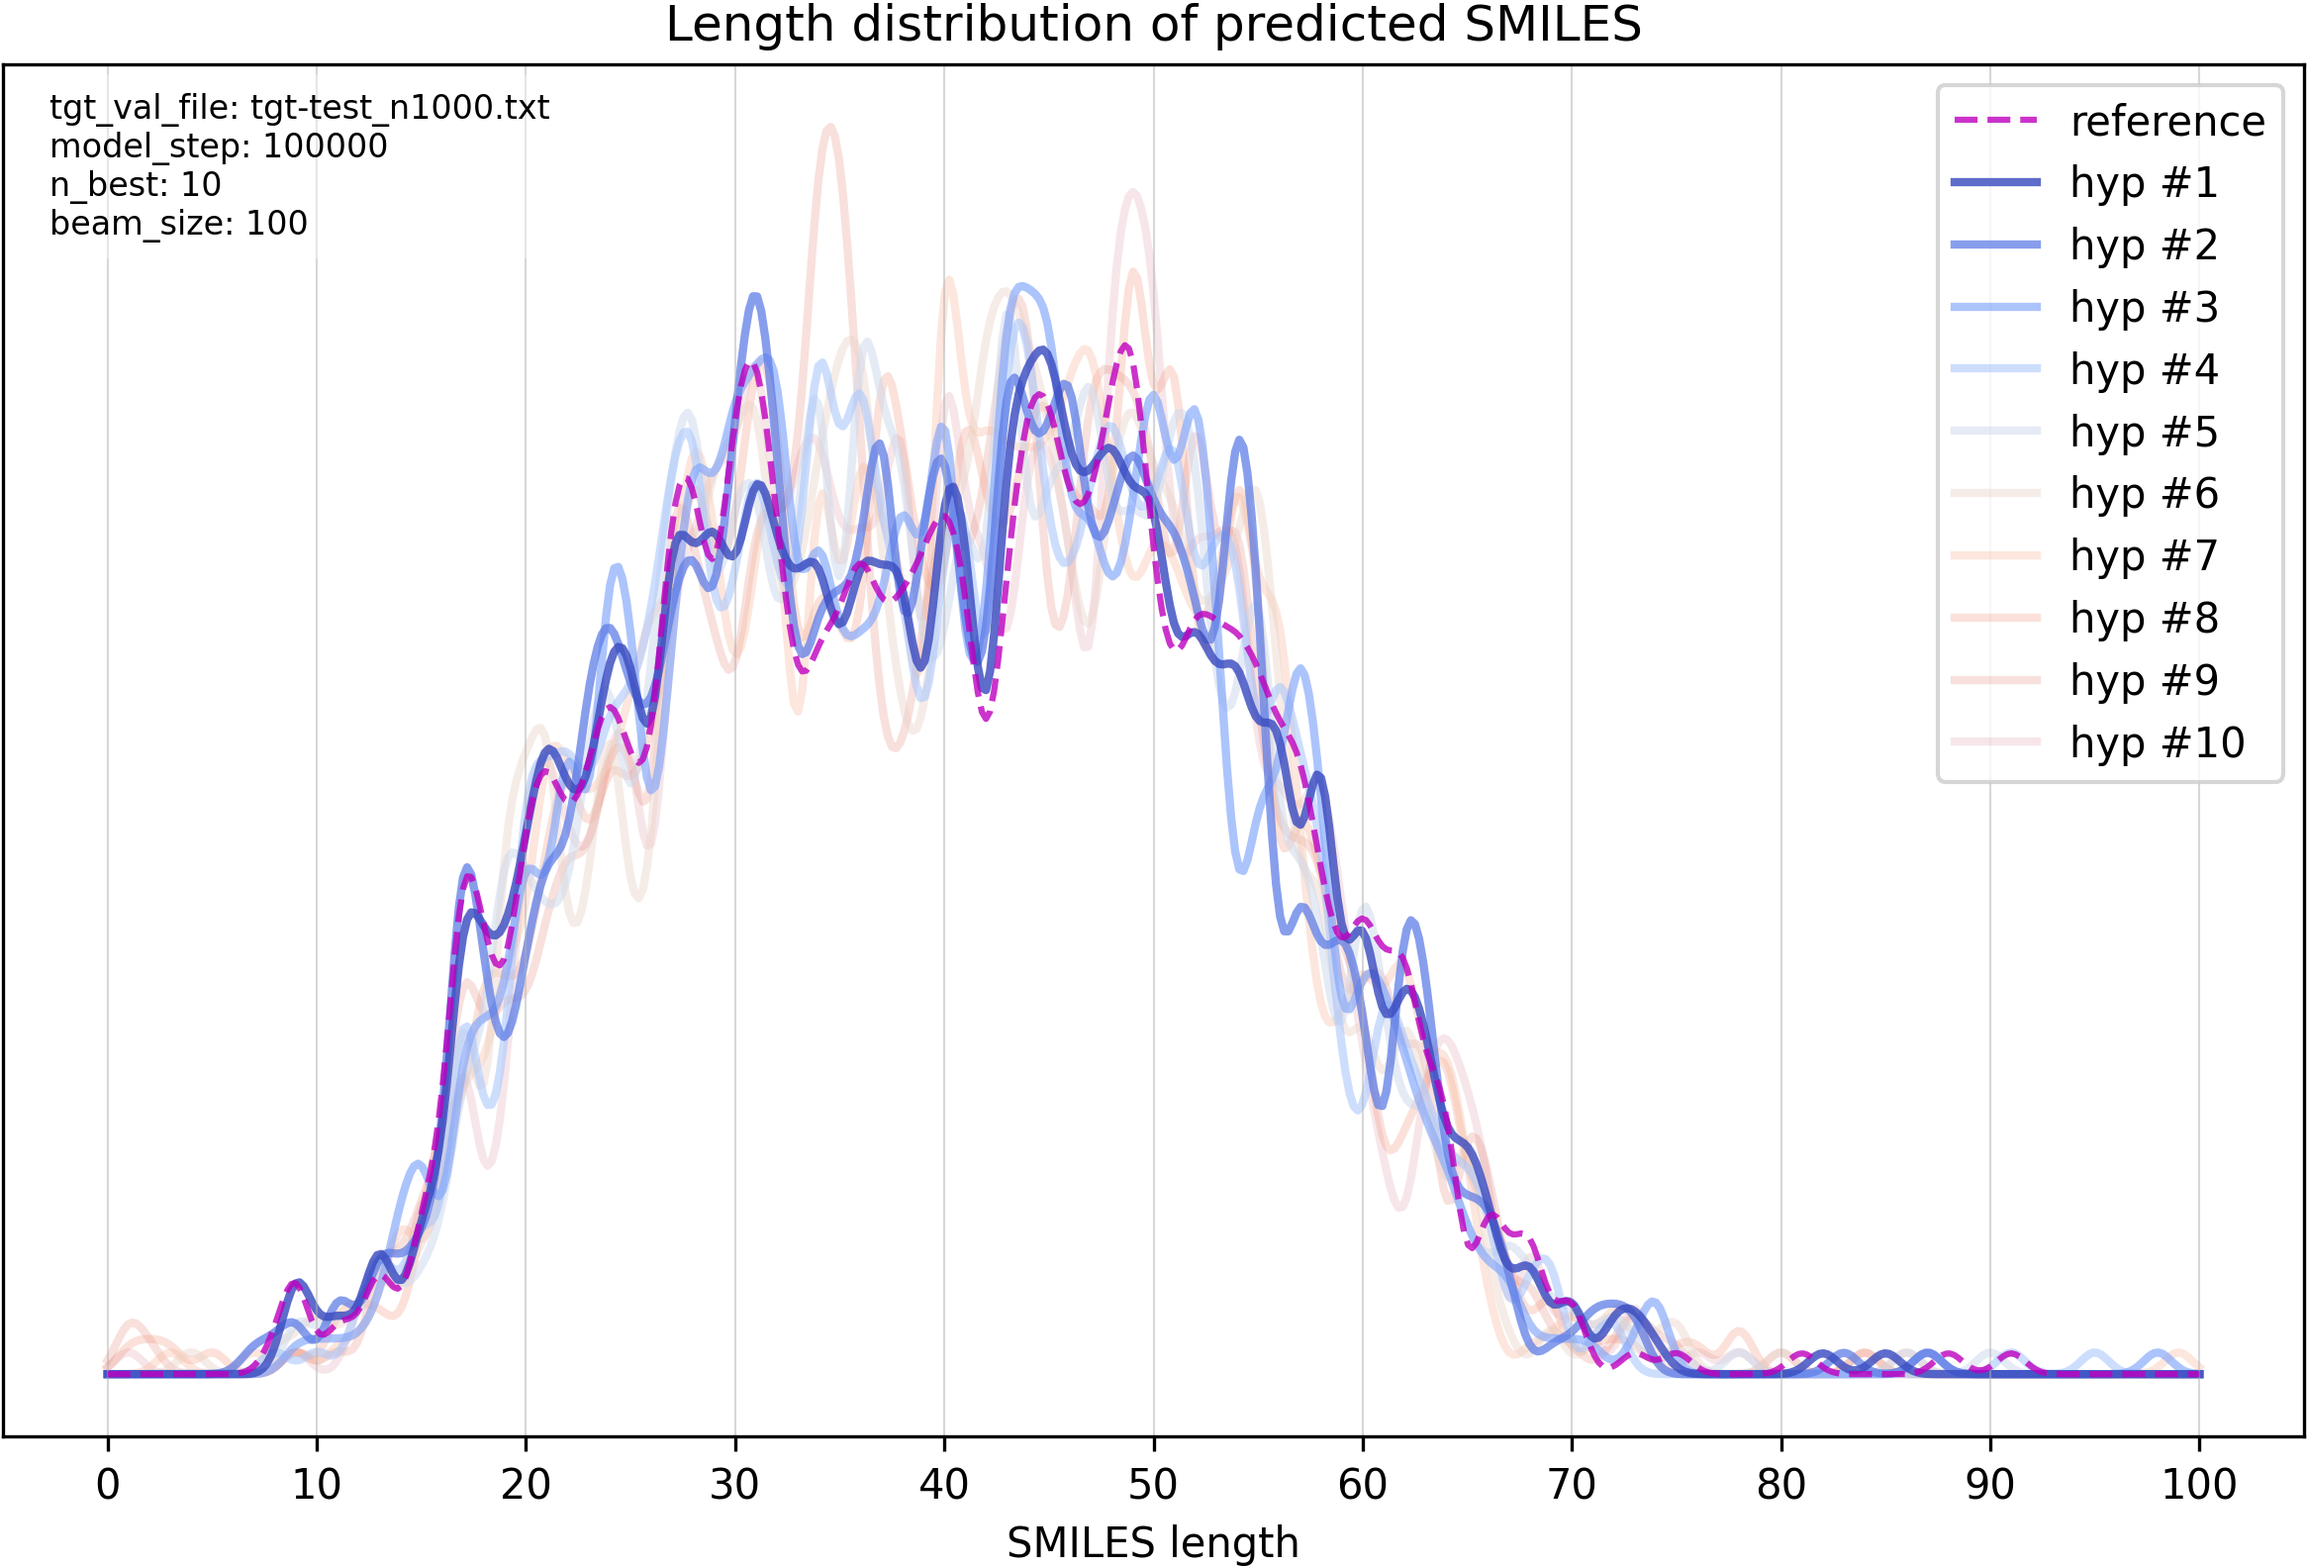
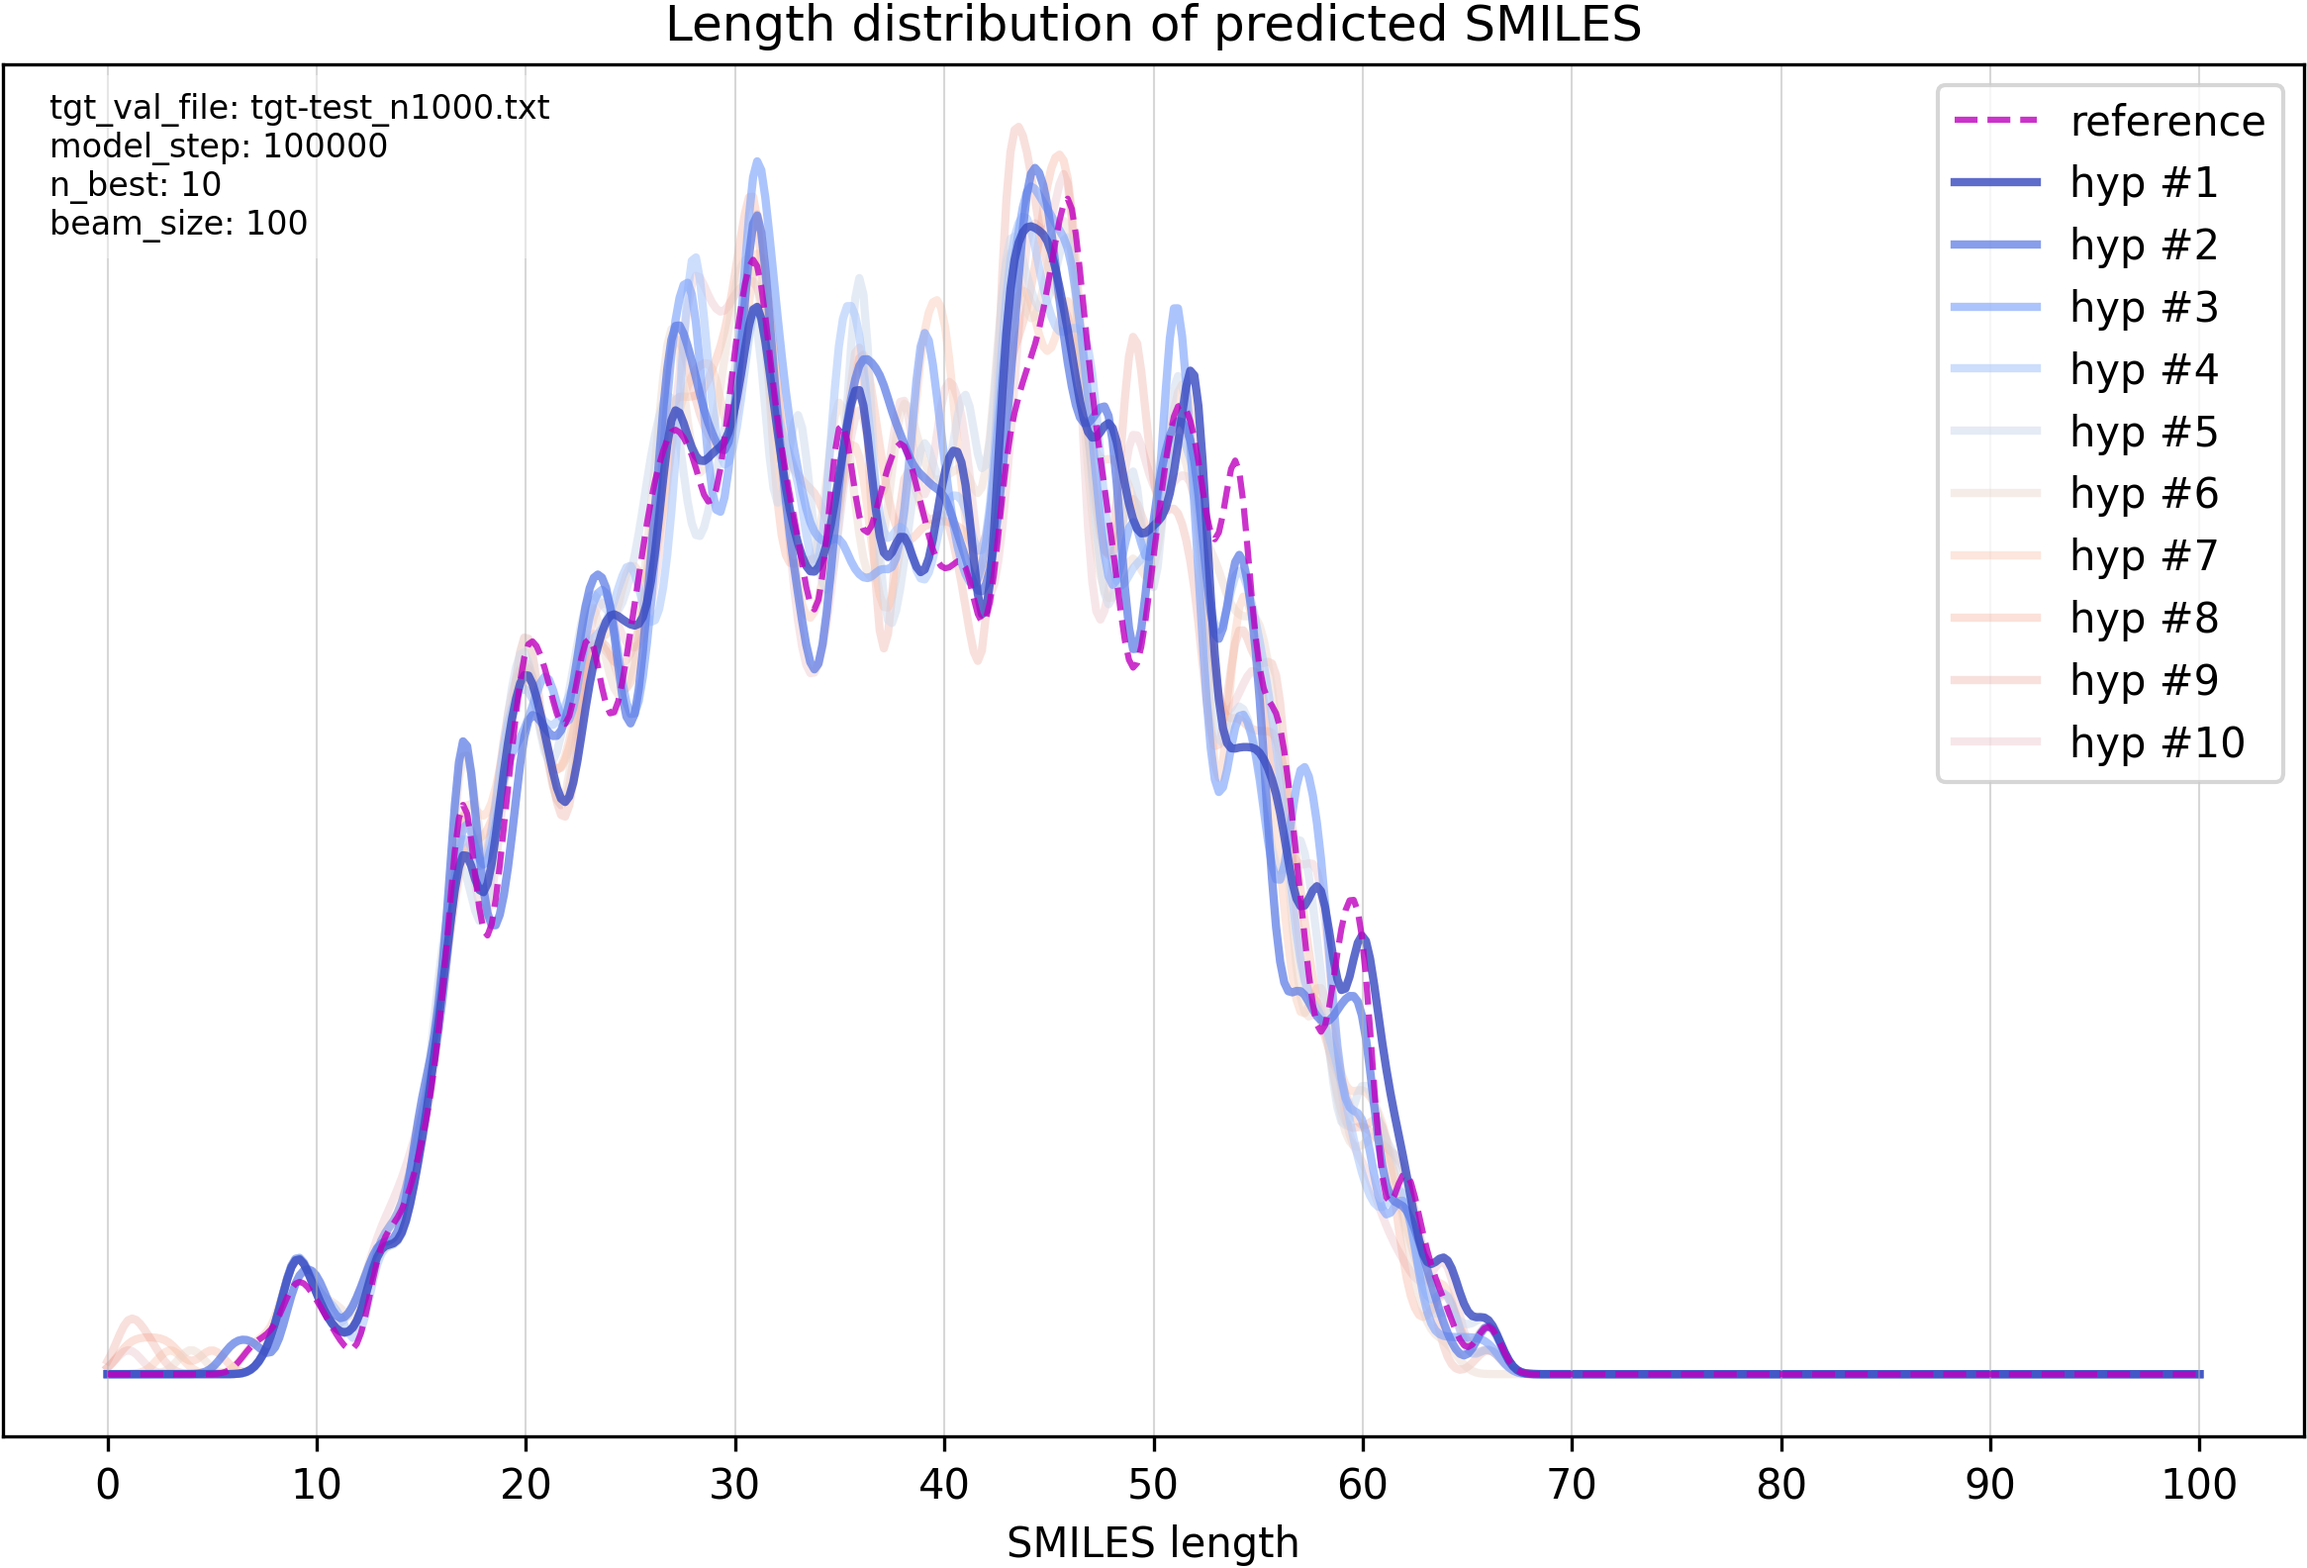
smiles length in tokens

Changed region(s): [[0.0927, 0.0928, 0.9575, 0.8971]]

diff --git a/translate/l_lengths.py b/translate/l_lengths.py
@@ -58,6 +58,8 @@ def process_translation(translation_file: Path):
         for (n, hyp) in enumerate(sample['hyps'], start=1)
     ])
 
+    print(df.head())
+
     if 'is_match' in df.columns:
         # Sanity check: cannot have 'is_match' if not 'sum_formula_match'
         assert not df[(~df['sum_formula_match']) & df['is_match']].any().any()
@@ -84,11 +86,12 @@ def process_translation(translation_file: Path):
 
     def plot_dist(all_smiles: pd.Series, **params):
         all_smiles = pd.Series(all_smiles)
-        all_smiles = all_smiles.str.replace(" ", "")
+
+        lengths = all_smiles.str.split(" ").apply(len)
 
         xx = np.linspace(0, max_len, 1 + (2 ** 10))
 
-        kde = gaussian_kde(all_smiles.str.len(), bw_method=0.05)
+        kde = gaussian_kde(lengths, bw_method=0.05)
         yy = kde(xx)
 
         yy /= np.trapezoid(yy, xx)
